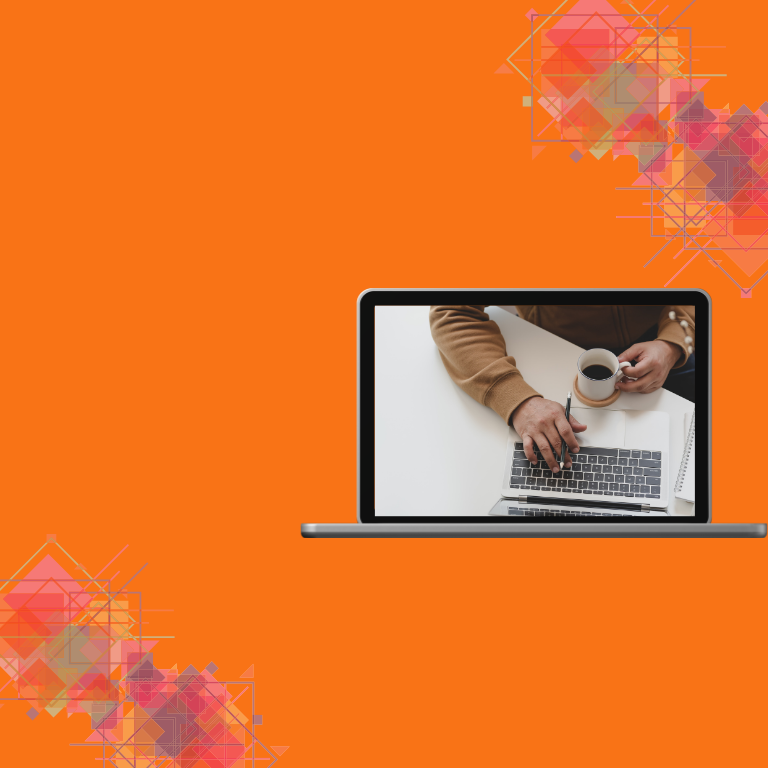
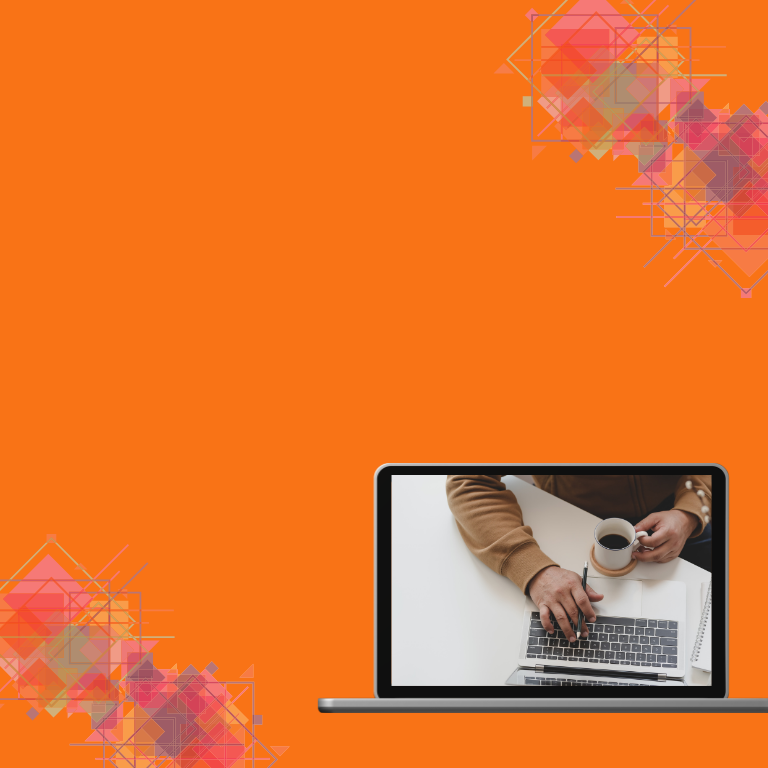
Add heroContactFormKey to service pages and enhance ContactForm components
- Introduced heroContactFormKey in ChamSocWebsitePage, PmlContentPage, and ThietKeWebsitePage for better form handling.
- Updated ContactFormModal and ContactFormProvider to support dynamic form keys.
- Enhanced HeroSection and ServiceLandingPage to utilize the new contact form key feature.
- Adjusted site-config to define various form keys for different services.
- Minor updates to contact form content for consistency.

Changed region(s): [[0.375, 0.375, 1.0, 0.9375]]

diff --git a/lib/site-config.ts b/lib/site-config.ts
@@ -411,7 +411,7 @@ export const heroContent = {
     "Giao diện quản trị dễ sử dụng",
     "Sử dụng công nghệ hiện đại, bền vững",
   ],
-  ctaLabel: "Đăng ký ngay!",
+  ctaLabel: "Đăng ký ngay",
   ctaHref: "/#lien-he",
   autoplayMs: 5000,
   banners: [
@@ -1063,7 +1063,7 @@ export const templateDetailContent = {
     "Bàn giao đầy đủ mã nguồn website",
     "Tặng thêm ngôn ngữ tiếng Anh",
     "Tặng SSL/HTTPS bảo mật",
-    "Tặng gói gửi email: tối đa 20 mail/ngày đến địa chỉ email cá nhân",
+    // "Tặng gói gửi email: tối đa 20 mail/ngày đến địa chỉ email cá nhân",
     "Tặng thiết kế Hero Banner (số lượng tùy theo gói)",
     "Hỗ trợ nhập bài viết/sản phẩm (số lượng tùy theo gói)",
     "Mã nguồn sử dụng: Next.js, Tailwind CSS, Headless CMS",
@@ -1971,6 +1971,13 @@ export const premiumServicesContent = {
  */
 export type ContactFormVariant = "consult" | "register";
 
+/** Bản copy form đăng ký — `register` mặc định, `thietKeWebsite` cho trang thiết kế website, `chamSocWebsite` cho trang chăm sóc website, `pmlContent` cho trang SEO Content. */
+export type ContactFormRegisterKey =
+  | "register"
+  | "thietKeWebsite"
+  | "chamSocWebsite"
+  | "pmlContent";
+
 export const contactFormContent = {
   image: {
     src: "/form/dang_ky_tu_van.png",
@@ -1987,6 +1994,24 @@ export const contactFormContent = {
     defaultHeading: "Đăng ký ngay",
     subheading:
       "Để lại thông tin — PML Vietnam sẽ liên hệ tư vấn và triển khai mẫu website phù hợp.",
+    submitLabel: "Đăng ký ngay",
+  },
+  thietKeWebsite: {
+    defaultHeading: "Đăng ký ngay",
+    subheading:
+      "Để lại thông tin - PML Vietnam sẽ liên hệ tư vấn và triển khai gói logo phù hợp.",
+    submitLabel: "Đăng ký ngay",
+  },
+  chamSocWebsite: {
+    defaultHeading: "Đăng ký ngay",
+    subheading:
+      "Để lại thông tin — PML Vietnam sẽ liên hệ tư vấn và triển khai gói chăm sóc website phù hợp.",
+    submitLabel: "Đăng ký ngay",
+  },
+  pmlContent: {
+    defaultHeading: "Đăng ký ngay",
+    subheading:
+      "Để lại thông tin — PML Vietnam sẽ liên hệ tư vấn và triển khai gói SEO Content phù hợp.",
     submitLabel: "Đăng ký ngay",
   },
   fields: {
@@ -2362,7 +2387,7 @@ export const websiteServiceContent = {
       "Giao diện quản trị dễ sử dụng",
       "Chuẩn SEO kỹ thuật từ ngày bàn giao",
     ],
-    ctaLabel: "Đăng ký tư vấn",
+    ctaLabel: "Đăng ký ngay",
     autoplayMs: 5000,
     banners: [...sharedHeroBanners],
   },
@@ -3487,7 +3512,7 @@ export const careServiceContent = {
       "Tối ưu tốc độ theo thời gian",
       "Đầu mối kỹ thuật rõ ràng, phản hồi nhanh",
     ],
-    ctaLabel: "Đăng ký tư vấn",
+    ctaLabel: "Đăng ký ngay",
     autoplayMs: 5000,
     banners: [
       {

diff --git a/components/contact/ContactFormModal.tsx b/components/contact/ContactFormModal.tsx
@@ -14,6 +14,7 @@ import { trackLead } from "@/lib/analytics/track";
 import {
   contactFormContent,
   siteContact,
+  type ContactFormRegisterKey,
   type ContactFormVariant,
 } from "@/lib/site-config";
 
@@ -25,6 +26,8 @@ export type ContactFormModalProps = {
   selectedSample?: string;
   /** Ghi đè subheading mặc định (vd. gói logo / nhận diện) */
   subheading?: string;
+  /** Bản copy form đăng ký. Mặc định `contactFormContent.register`. */
+  formKey?: ContactFormRegisterKey;
 };
 
 type FormErrors = {
@@ -61,6 +64,7 @@ export function ContactFormModal({
   variant,
   selectedSample,
   subheading: subheadingOverride,
+  formKey = "register",
 }: ContactFormModalProps) {
   const titleId = useId();
   const nameId = useId();
@@ -77,10 +81,9 @@ export function ContactFormModal({
   const [submitting, setSubmitting] = useState(false);
   const [submitted, setSubmitted] = useState(false);
 
+  const registerCopy = contactFormContent[formKey];
   const copy =
-    variant === "consult"
-      ? contactFormContent.consult
-      : contactFormContent.register;
+    variant === "consult" ? contactFormContent.consult : registerCopy;
   const fields = contactFormContent.fields;
 
   const heading =
@@ -88,7 +91,7 @@ export function ContactFormModal({
       ? selectedSample
       : variant === "consult"
         ? contactFormContent.consult.heading
-        : contactFormContent.register.defaultHeading;
+        : registerCopy.defaultHeading;
 
   const subheading = subheadingOverride ?? copy.subheading;
 
@@ -119,7 +122,7 @@ export function ContactFormModal({
       setSubmitting(false);
       setSubmitted(false);
     }
-  }, [open, variant, selectedSample]);
+  }, [open, variant, selectedSample, formKey]);
 
   function handleDialogClose() {
     onClose();

diff --git a/components/contact/ContactFormProvider.tsx b/components/contact/ContactFormProvider.tsx
@@ -10,12 +10,17 @@ import {
 } from "react";
 import { ContactFormModal } from "@/components/contact/ContactFormModal";
 import { trackConsultationClick } from "@/lib/analytics/track";
-import type { ContactFormVariant } from "@/lib/site-config";
+import type {
+  ContactFormRegisterKey,
+  ContactFormVariant,
+} from "@/lib/site-config";
 
 type OpenContactFormOptions = {
   variant?: ContactFormVariant;
   selectedSample?: string;
   subheading?: string;
+  /** Bản copy khi `variant` là register. Mặc định `contactFormContent.register`. */
+  formKey?: ContactFormRegisterKey;
 };
 
 type ContactFormContextValue = {
@@ -30,12 +35,14 @@ export function ContactFormProvider({ children }: { children: ReactNode }) {
   const [variant, setVariant] = useState<ContactFormVariant>("register");
   const [selectedSample, setSelectedSample] = useState<string | undefined>();
   const [subheading, setSubheading] = useState<string | undefined>();
+  const [formKey, setFormKey] = useState<ContactFormRegisterKey>("register");
 
   const openContactForm = useCallback((options?: OpenContactFormOptions) => {
     const nextVariant = options?.variant ?? "register";
     setVariant(nextVariant);
     setSelectedSample(options?.selectedSample);
     setSubheading(options?.subheading);
+    setFormKey(options?.formKey ?? "register");
     setOpen(true);
     trackConsultationClick({ variant: nextVariant });
   }, []);
@@ -58,6 +65,7 @@ export function ContactFormProvider({ children }: { children: ReactNode }) {
         variant={variant}
         selectedSample={selectedSample}
         subheading={subheading}
+        formKey={formKey}
       />
     </ContactFormContext.Provider>
   );

diff --git a/components/sections/HeroSection.tsx b/components/sections/HeroSection.tsx
@@ -5,7 +5,7 @@ import { useContactForm } from "@/components/contact/ContactFormProvider";
 import { Carousel, CarouselSlide } from "@/components/ui/Carousel";
 import { CTAButton } from "@/components/ui/CTAButton";
 import { RevealItem, RevealStagger } from "@/components/ui/Reveal";
-import { heroContent } from "@/lib/site-config";
+import { heroContent, type ContactFormRegisterKey } from "@/lib/site-config";
 
 export type HeroContent = {
   eyebrow?: string;
@@ -23,6 +23,8 @@ type HeroSectionProps = {
   content?: HeroContent;
   /** Section id — trang dịch vụ có thể đổi để tránh trùng `#dich-vu`. */
   sectionId?: string;
+  /** Bản copy form khi bấm CTA. Mặc định `contactFormContent.register`. */
+  contactFormKey?: ContactFormRegisterKey;
 };
 
 /**
@@ -32,6 +34,7 @@ type HeroSectionProps = {
 export function HeroSection({
   content = heroContent,
   sectionId = "dich-vu",
+  contactFormKey = "register",
 }: HeroSectionProps) {
   const { eyebrow, headline, bullets, ctaLabel, ctaSubheading, banners, autoplayMs } =
     content;
@@ -92,6 +95,7 @@ export function HeroSection({
               onClick={() =>
                 openContactForm({
                   variant: "register",
+                  formKey: contactFormKey,
                   subheading: ctaSubheading,
                 })
               }

diff --git a/components/sections/ServiceLandingPage.tsx b/components/sections/ServiceLandingPage.tsx
@@ -20,11 +20,16 @@ import {
   type WhyChooseSectionContent,
 } from "@/components/sections/WhyChooseSection";
 import { Reveal } from "@/components/ui/Reveal";
-import type { CareWorkComparisonContent } from "@/lib/site-config";
+import type {
+  CareWorkComparisonContent,
+  ContactFormRegisterKey,
+} from "@/lib/site-config";
 
 export type ServiceLandingContent = {
   hero: HeroContent;
   heroSectionId: string;
+  /** Bản copy form CTA hero. Mặc định `contactFormContent.register`. */
+  heroContactFormKey?: ContactFormRegisterKey;
   showSamples?: boolean;
   intro: ServiceIntroContent;
   /** Đoạn mô tả chi phí. Bỏ qua nếu dùng `costPackages`. */
@@ -45,7 +50,11 @@ export type ServiceLandingContent = {
 export function ServiceLandingPage({ content }: { content: ServiceLandingContent }) {
   return (
     <>
-      <HeroSection content={content.hero} sectionId={content.heroSectionId} />
+      <HeroSection
+        content={content.hero}
+        sectionId={content.heroSectionId}
+        contactFormKey={content.heroContactFormKey}
+      />
       {content.showSamples ? (
         <Reveal>
           <WebsiteSamplesSection />

diff --git a/components/layout/Header.tsx b/components/layout/Header.tsx
@@ -171,7 +171,6 @@ export function Header() {
             alt="PML Vietnam"
             width={1995}
             height={1038}
-            priority
             className={cx(
               "w-auto object-contain transition-[height] duration-[600ms] ease-[cubic-bezier(0.22,1,0.36,1)]",
               scrolled ? "h-10 sm:h-12" : "h-12 sm:h-14",

diff --git a/app/seo-content/page.tsx b/app/seo-content/page.tsx
@@ -16,6 +16,7 @@ export default function SeoContentPage() {
       content={{
         hero: contentServiceContent.hero,
         heroSectionId: "seo-content",
+        heroContactFormKey: "pmlContent",
         intro: contentServiceContent.intro,
         costPackages: contentServiceContent.costPackages,
         why: contentServiceContent.why,

diff --git a/app/cham-soc-website/page.tsx b/app/cham-soc-website/page.tsx
@@ -16,6 +16,7 @@ export default function ChamSocWebsitePage() {
       content={{
         hero: careServiceContent.hero,
         heroSectionId: "cham-soc-website",
+        heroContactFormKey: "chamSocWebsite",
         intro: careServiceContent.intro,
         cost: careServiceContent.cost,
         why: careServiceContent.why,

diff --git a/app/thiet-ke-website/page.tsx b/app/thiet-ke-website/page.tsx
@@ -16,6 +16,7 @@ export default function ThietKeWebsitePage() {
       content={{
         hero: websiteServiceContent.hero,
         heroSectionId: "thiet-ke-website",
+        heroContactFormKey: "thietKeWebsite",
         showSamples: true,
         intro: websiteServiceContent.intro,
         cost: websiteServiceContent.cost,
